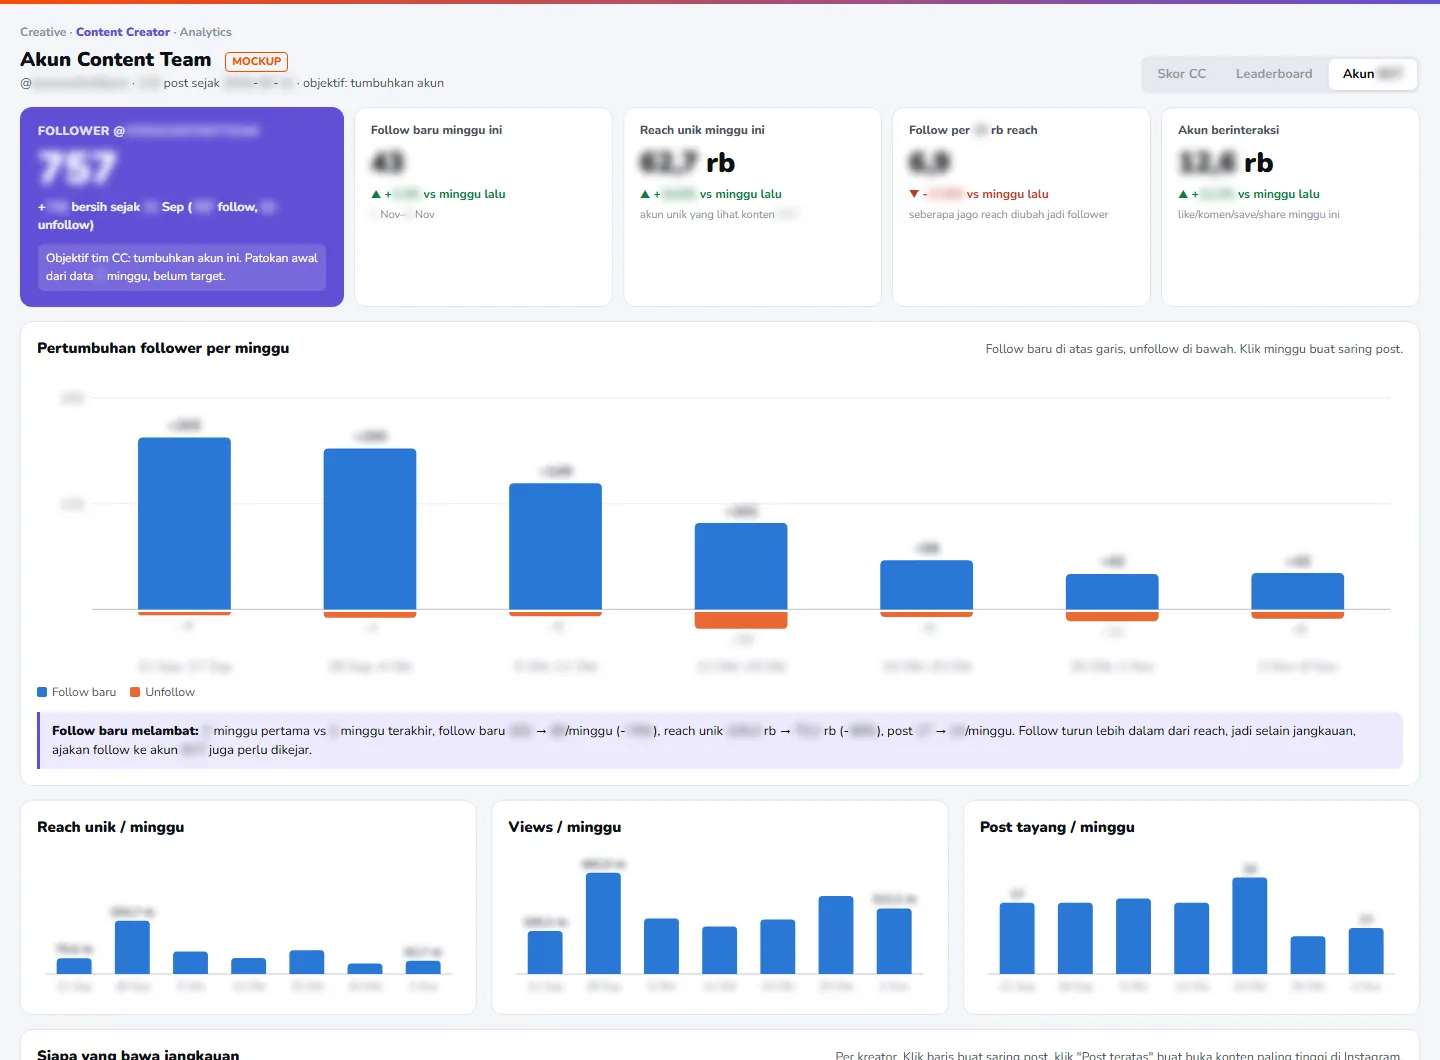
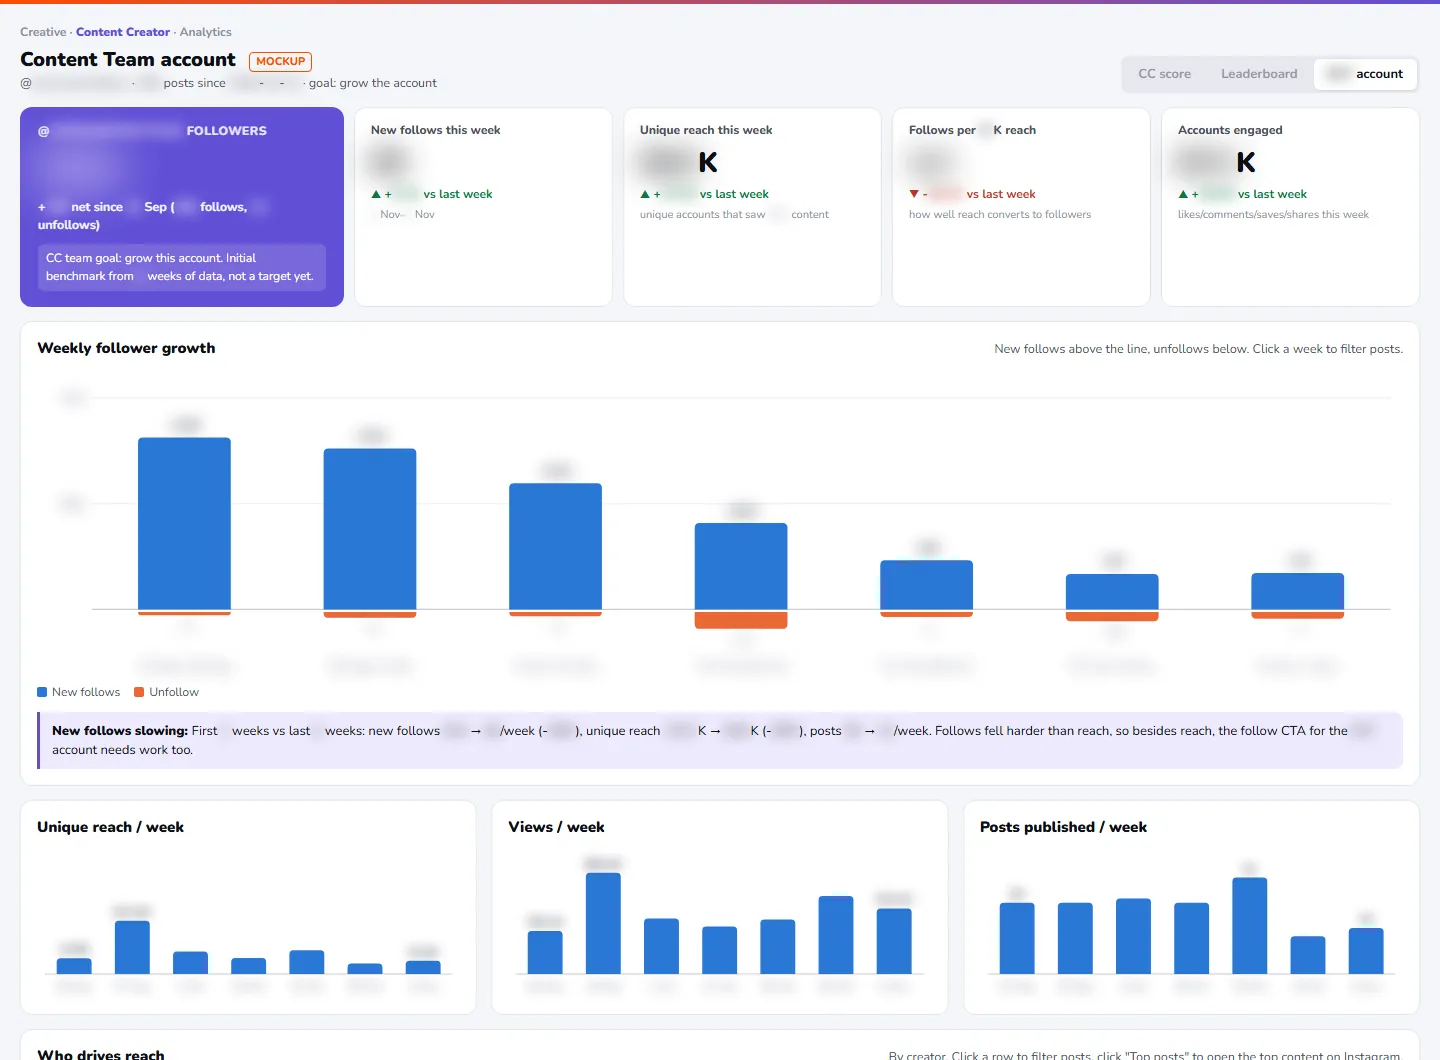
feat: translate screens to English and harden blur
Re-render all work screens with English UI text, scrambled digits and
a font-size aware blur so large figures can't be read through it.

diff --git a/index.html b/index.html
@@ -177,7 +177,7 @@
         <div class="band-title">
           <h2>Screens<small>画面 · what the work looks like</small></h2>
         </div>
-        <p class="shots-note">Rendered from the clickable mockups and working sheets I hand to our dev. Numbers, people and the company name are blurred. The UI is in Indonesian because that's the team using it.</p>
+        <p class="shots-note">Rendered from the clickable mockups and working sheets I hand to our dev, with the UI translated to English. Numbers, people and the company name are blurred, and the digits underneath were scrambled before blurring.</p>
         <div class="shots">
           <figure class="shot">
             <a href="img/work/sns-monthly-review.webp" target="_blank" rel="noopener"><img src="img/work/sns-monthly-review.webp" width="1440" height="1109" loading="lazy" alt="Monthly social media review screen: account metrics month over month and post summary cards, numbers blurred"></a>
